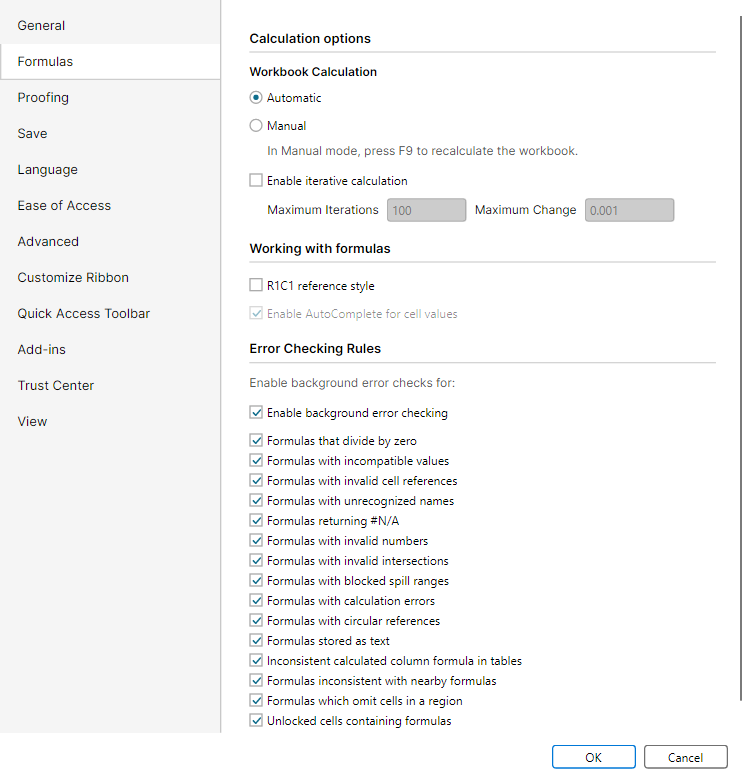
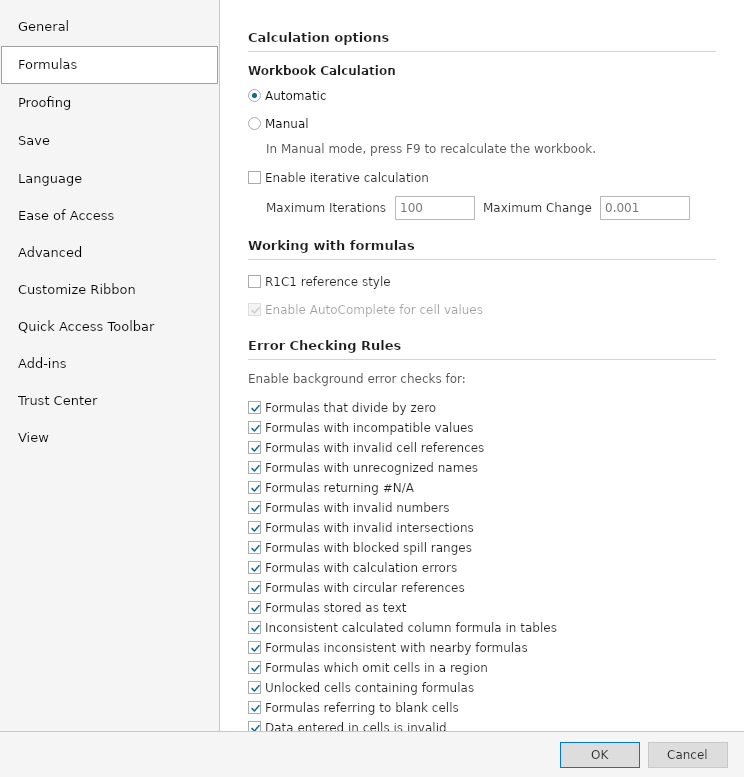
FreeX Wave116 align Options Formulas parity

diff --git a/src/FreeX.App.Avalonia/MainWindow.Options.cs b/src/FreeX.App.Avalonia/MainWindow.Options.cs
@@ -195,9 +195,6 @@ public sealed partial class MainWindow
         ApplyOptionsCheckBoxChrome(r1c1Box);
         AutomationProperties.SetAutomationId(r1c1Box, "OptionsR1C1ReferenceStyleCheckBox");
 
-        var errorCheckingBox = new CheckBox { Content = UiText.Get("Options_EnableErrorChecking"), IsChecked = current.ErrorCheckingEnabled };
-        ApplyOptionsCheckBoxChrome(errorCheckingBox);
-        AutomationProperties.SetAutomationId(errorCheckingBox, "OptionsEnableErrorCheckingCheckBox");
         var errorRuleBoxes = new Dictionary<string, CheckBox>(StringComparer.OrdinalIgnoreCase);
         var errorRulesPanel = new StackPanel { Spacing = 0 };
         foreach (var rule in FormulaErrorCheckingRuleCatalog.SupportedRules)
@@ -238,7 +235,6 @@ public sealed partial class MainWindow
             OptionsCheckBox(OptionsText("Options_EnableAutoCompleteForCellValues"), isChecked: true, isEnabled: false),
             OptionsSectionHeader(OptionsText("Options_ErrorCheckingRules")),
             OptionsDescription(OptionsText("Options_EnableBackgroundErrorChecksFor")),
-            errorCheckingBox,
             errorRulesPanel);
 
         // ── Proofing ────────────────────────────────────────────────────────────
@@ -1169,7 +1165,7 @@ public sealed partial class MainWindow
                     userNameBox.Text,
                     calcAutoButton.IsChecked == true,
                     r1c1Box.IsChecked == true,
-                    errorCheckingBox.IsChecked == true,
+                    current.ErrorCheckingEnabled,
                     current.ProofingIgnoreUppercase,
                     current.ProofingIgnoreNumbers,
                     showFormulaBarBox.IsChecked == true,

diff --git a/tests/FreeX.App.Services.Tests/QCalcSettingsAvaloniaOptionsTests.cs b/tests/FreeX.App.Services.Tests/QCalcSettingsAvaloniaOptionsTests.cs
@@ -77,6 +77,20 @@ public sealed class QCalcSettingsAvaloniaOptionsTests
     }
 
     [Fact]
+    public void AvaloniaOptions_UsesWpfFormulaRuleSurfaceWithoutExtraMasterRow()
+    {
+        var source = ReadAvaloniaOptionsSource();
+
+        // WPF's authoritative Formulas page exposes the individual rule switches, not an
+        // additional master switch. Keep the persisted legacy field unchanged while removing
+        // its non-authoritative row from the height-constrained paired surface.
+        source.Should().NotContain("OptionsEnableErrorCheckingCheckBox");
+        source.Should().Contain("current.ErrorCheckingEnabled,");
+        source.Should().Contain("FormulaErrorCheckingRuleCatalog.SupportedRules");
+        source.Should().Contain("new SetFormulaErrorCheckingRuleCommand(rule.ErrorCode, enabled: !shouldDisable)");
+    }
+
+    [Fact]
     public void AvaloniaOptions_OnlyAppliesIterativeCalculationWhenValuesActuallyChange()
     {
         var source = ReadAvaloniaOptionsSource();

diff --git a/docs/parity/dialog-visual-evidence-summary.md b/docs/parity/dialog-visual-evidence-summary.md
@@ -64,7 +64,6 @@ Outliers are ranked by a deterministic triage score: normalized 32x32 ARGB sampl
 | --- | ---: | ---: | --- | --- | --- | ---: | ---: | ---: | ---: |
 | dialog.FindReplace | 720x430 | 720x430 | 720x430 px @ 96 DPI vs 720x430 px @ 96 DPI |  |  | 0.095 | 0.015 | 0.005 | 0.075 |
 | dialog.FindReplace.Find | 720x430 | 720x430 | 720x430 px @ 96 DPI vs 720x430 px @ 96 DPI |  |  | 0.095 | 0.015 | 0.005 | 0.075 |
-| dialog.Options.Formulas | 744x777 | 744x777 | 744x777 px @ 96 DPI vs 744x777 px @ 96 DPI |  |  | 0.093 | 0.033 | 0.006 | 0.054 |
 | dialog.Zoom | 300x240 | 300x240 | 450x360 px @ 144 DPI vs 300x240 px @ 96 DPI |  |  | 0.093 | 0.034 | 0.015 | 0.045 |
 | dialog.PageSetup | 600x560 | 600x560 | 600x560 px @ 96 DPI vs 600x560 px @ 96 DPI |  |  | 0.091 | 0.025 | 0.007 | 0.059 |
 | dialog.PageSetup.Page | 600x560 | 600x560 | 600x560 px @ 96 DPI vs 600x560 px @ 96 DPI |  |  | 0.091 | 0.025 | 0.007 | 0.059 |
@@ -72,6 +71,7 @@ Outliers are ranked by a deterministic triage score: normalized 32x32 ARGB sampl
 | dialog.EvaluateFormula | 600x360 | 600x360 | 900x540 px @ 144 DPI vs 600x360 px @ 96 DPI |  |  | 0.090 | 0.030 | 0.007 | 0.052 |
 | dialog.TextToColumns | 500x430 | 500x430 | 750x645 px @ 144 DPI vs 500x430 px @ 96 DPI |  |  | 0.089 | 0.068 | 0.009 | 0.012 |
 | dialog.GoalSeekStatus | 380x190 | 380x190 | 380x190 px @ 96 DPI vs 380x190 px @ 96 DPI |  |  | 0.089 | 0.029 | 0.012 | 0.047 |
+| dialog.AddWatch | 360x170 | 360x170 | 540x255 px @ 144 DPI vs 360x170 px @ 96 DPI |  |  | 0.088 | 0.054 | 0.000 | 0.033 |
 
 ## Scale-Aware Dimension Mismatch Details
 
@@ -133,7 +133,7 @@ These rows have a DPI-normalized checked-in PNG size that disagrees with the dia
 | dialog.Options.Advanced | dialog.Options.Advanced.png | 744x521 | 744x521 px @ 96 DPI | True | dialog.Options.Advanced.png | 744x521 | 744x521 px @ 96 DPI | True | True | 0.041 |
 | dialog.Options.CustomizeRibbon | dialog.Options.CustomizeRibbon.png | 744x521 | 744x521 px @ 96 DPI | True | dialog.Options.CustomizeRibbon.png | 744x521 | 744x521 px @ 96 DPI | True | True | 0.024 |
 | dialog.Options.EaseOfAccess | dialog.Options.EaseOfAccess.png | 744x521 | 744x521 px @ 96 DPI | True | dialog.Options.EaseOfAccess.png | 744x521 | 744x521 px @ 96 DPI | True | True | 0.013 |
-| dialog.Options.Formulas | dialog.Options.Formulas.png | 744x777 | 744x777 px @ 96 DPI | True | dialog.Options.Formulas.png | 744x777 | 744x777 px @ 96 DPI | True | True | 0.093 |
+| dialog.Options.Formulas | dialog.Options.Formulas.png | 744x777 | 744x777 px @ 96 DPI | True | dialog.Options.Formulas.png | 744x777 | 744x777 px @ 96 DPI | True | True | 0.045 |
 | dialog.Options.General | dialog.Options.General.png | 744x521 | 744x521 px @ 96 DPI | True | dialog.Options.General.png | 744x521 | 744x521 px @ 96 DPI | True | True | 0.032 |
 | dialog.Options.Language | dialog.Options.Language.png | 744x521 | 744x521 px @ 96 DPI | True | dialog.Options.Language.png | 744x521 | 744x521 px @ 96 DPI | True | True | 0.021 |
 | dialog.Options.Proofing | dialog.Options.Proofing.png | 744.301x521 | 744x521 px @ 96 DPI | True | dialog.Options.Proofing.png | 744x521 | 744x521 px @ 96 DPI | True | True | 0.042 |

diff --git a/docs/parity/freex-options-formulas-wave116-20260803.md b/docs/parity/freex-options-formulas-wave116-20260803.md
@@ -1,0 +1,33 @@
+# FreeX Options Formulas Wave 116
+
+Date: 2026-08-03
+
+## Scope
+
+The current-source recapture established that iterative calculation is production behavior in both WPF and Avalonia. The prior committed WPF PNG was stale: it predated the WPF `OptIterativeEnabled`, maximum-iterations, and maximum-change controls. Both hosts were recaptured at the established 744x777 client frame before judging the layout.
+
+Avalonia's Formulas page also had an extra `Enable background error checking` master row that is absent from the WPF authority. The row consumed vertical space and shifted the rule list, while the existing per-rule switches already route through the shared formula-error command. The Avalonia row was removed; persisted `ErrorCheckingEnabled` is carried through unchanged, individual rule behavior remains, and iterative calculation behavior is unchanged.
+
+## Evidence
+
+- WPF: fresh `FreeX.App.Host --parity-capture` capture from current source.
+- Avalonia: fresh self-contained `linux-x64` capture from current source under Ubuntu 24.04 Docker/Xvfb with `--parity-capture --parity-capture-surface dialog.Options.Formulas`.
+- Both promoted PNGs are nonblank and 744x777 pixels; the iterative band is present in both.
+- The generated summary and both manifests now record current-source freshness and the replacement of the stale WPF evidence.
+
+| Metric | Stale committed pair | Fresh pair after Wave116 | Change |
+| --- | ---: | ---: | ---: |
+| `triageScore` | 0.092999 | 0.044740 | -51.9% |
+| `sampleMeanDelta` | 0.032790 | 0.031408 | -4.2% |
+| `lumaDelta` | 0.005718 | 0.008047 | +40.7% |
+| `nonBackgroundDelta` | 0.054211 | 0.005006 | -90.8% |
+| Logical dimensions | 744x777 / 744x777 | 744x777 / 744x777 | matched |
+
+The fresh pair's general comparer reports a 3.37% pixel-diff for the surface. The generated triage score is the repository's review-prioritization metric and is not a pass/fail visual acceptance threshold.
+
+## Verification and limitations
+
+- Focused services tests passed, including `QCalcSettingsAvaloniaOptionsTests` and `OptionsDialogPlannerTests`.
+- Fresh WPF capture/build completed with 0 warnings and 0 errors.
+- Fresh Avalonia `linux-x64` publish and Ubuntu 24.04 Docker/Xvfb capture completed successfully.
+- The remaining delta is primarily WPF/Avalonia control and text rasterization, with the shared 744x777 frame still showing the lower rule list's natural scrollbar/clipping behavior. No Linux claim is made for the WPF image; the Avalonia image is explicitly Linux Docker/Xvfb evidence.
